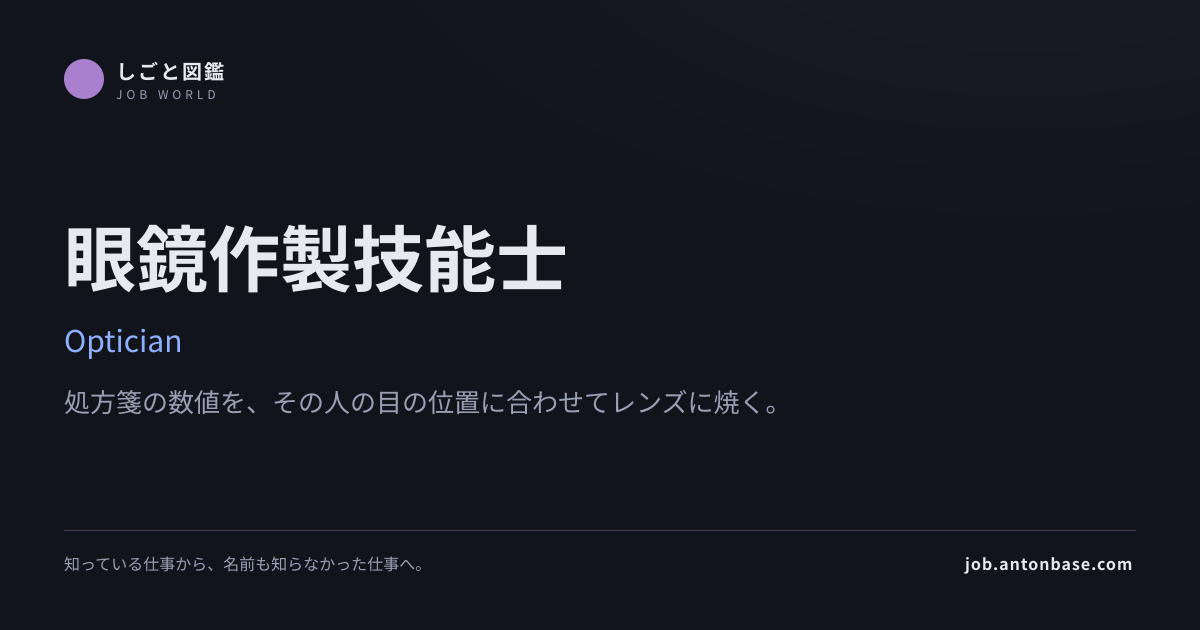
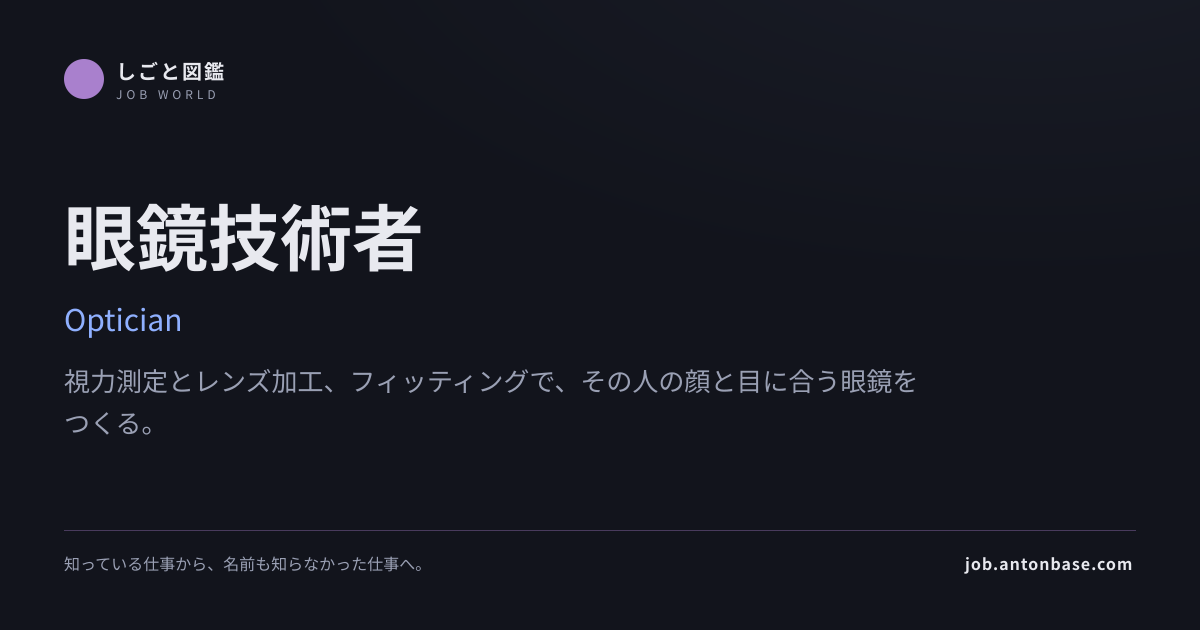
fix(jobs): source lantern-maker and remove unsupported fire claim
Sites Operator task d64a446e-5ade-4b27-8ab0-1b3ed73c293f. Replace unverified lantern source and ignition claim; skip override JSON in data build; sync stale optician OG so CI drift gate passes.

Changed region(s): [[0.0308, 0.3016, 0.7708, 0.6937]]

diff --git a/scripts/load.ts b/scripts/load.ts
@@ -41,7 +41,7 @@ function readJson<T>(path: string): T {
 function listJson(dir: string): string[] {
   if (!existsSync(dir)) return [];
   return readdirSync(dir)
-    .filter((f) => f.endsWith(".json"))
+    .filter((f) => f.endsWith(".json") && !f.endsWith(".override.json"))
     .sort();
 }
 
